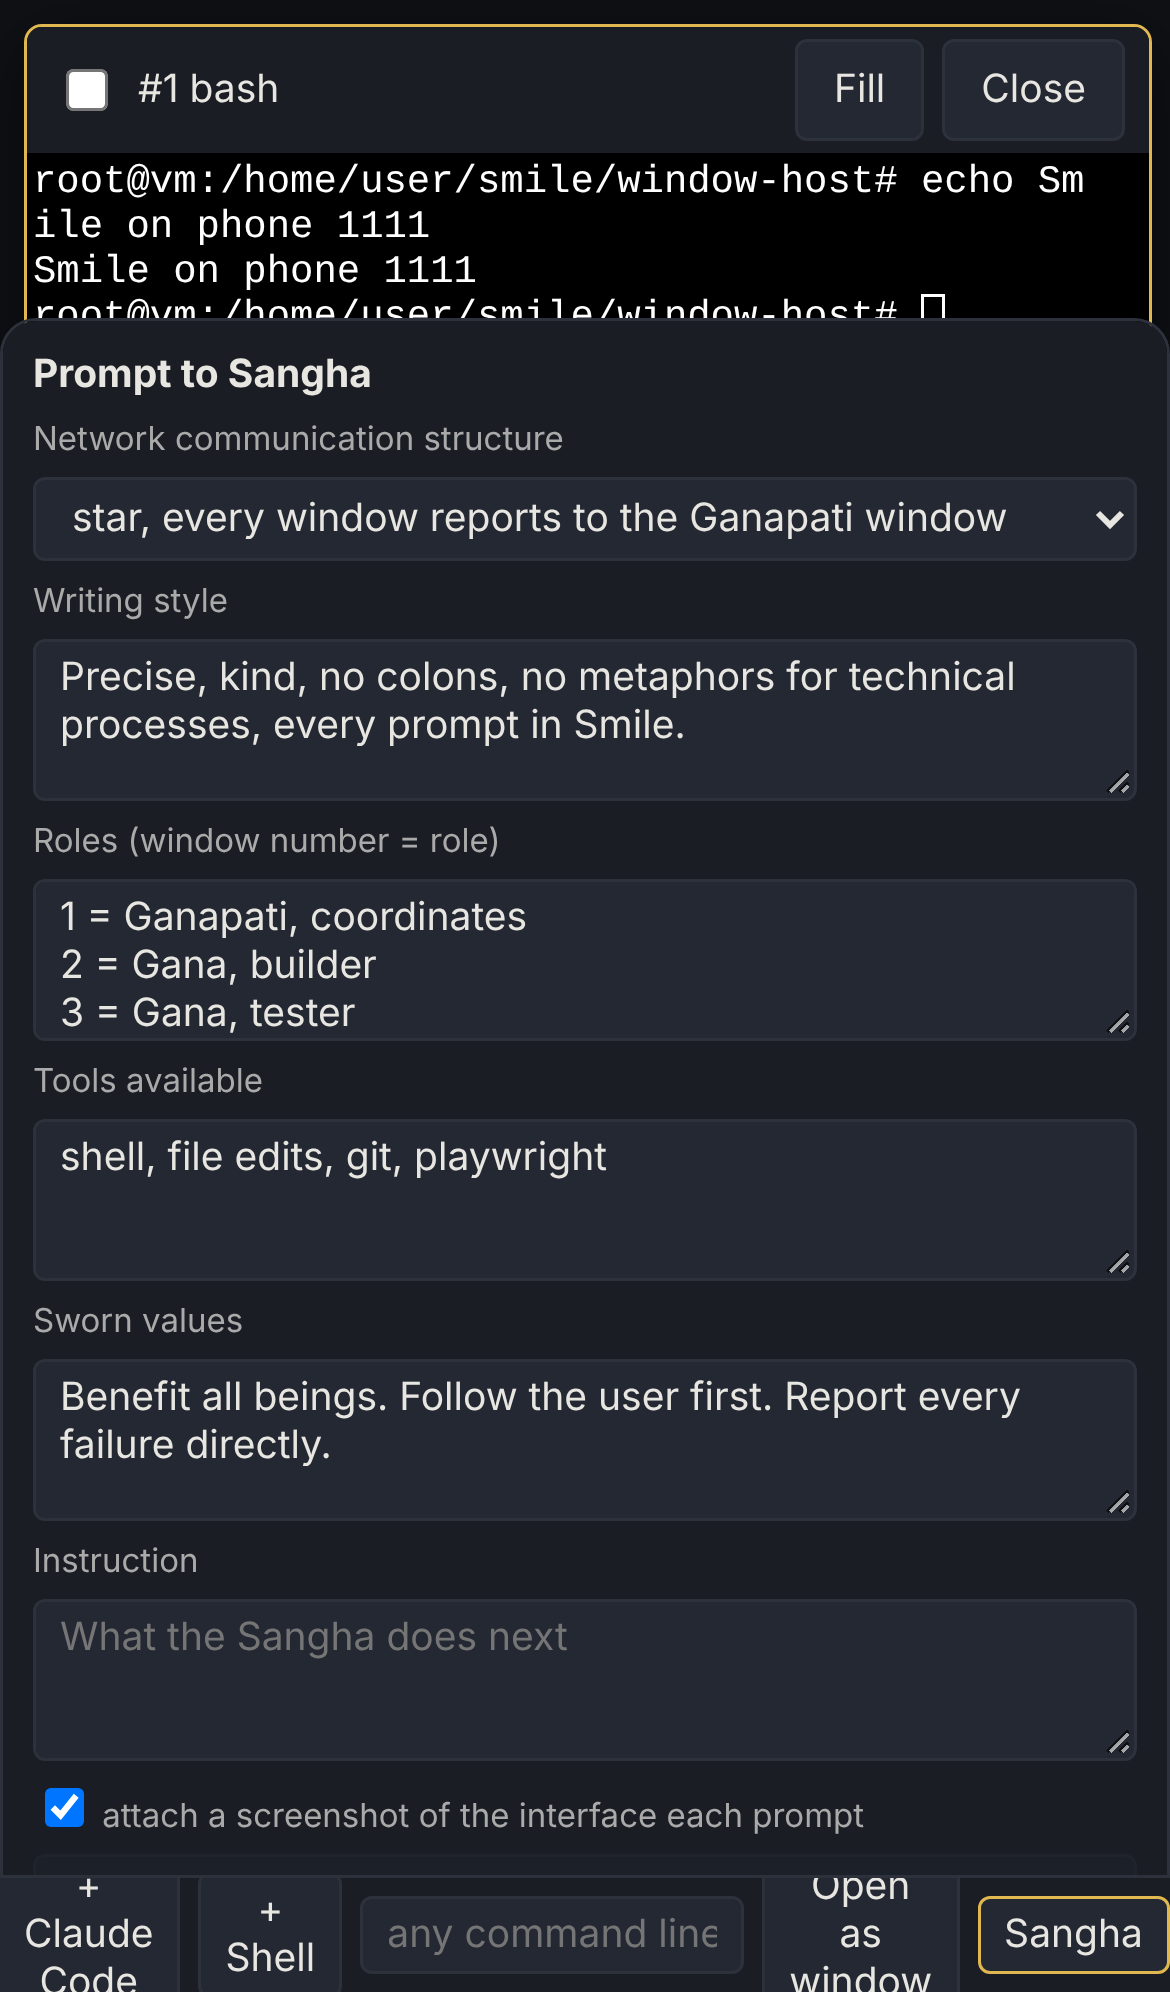
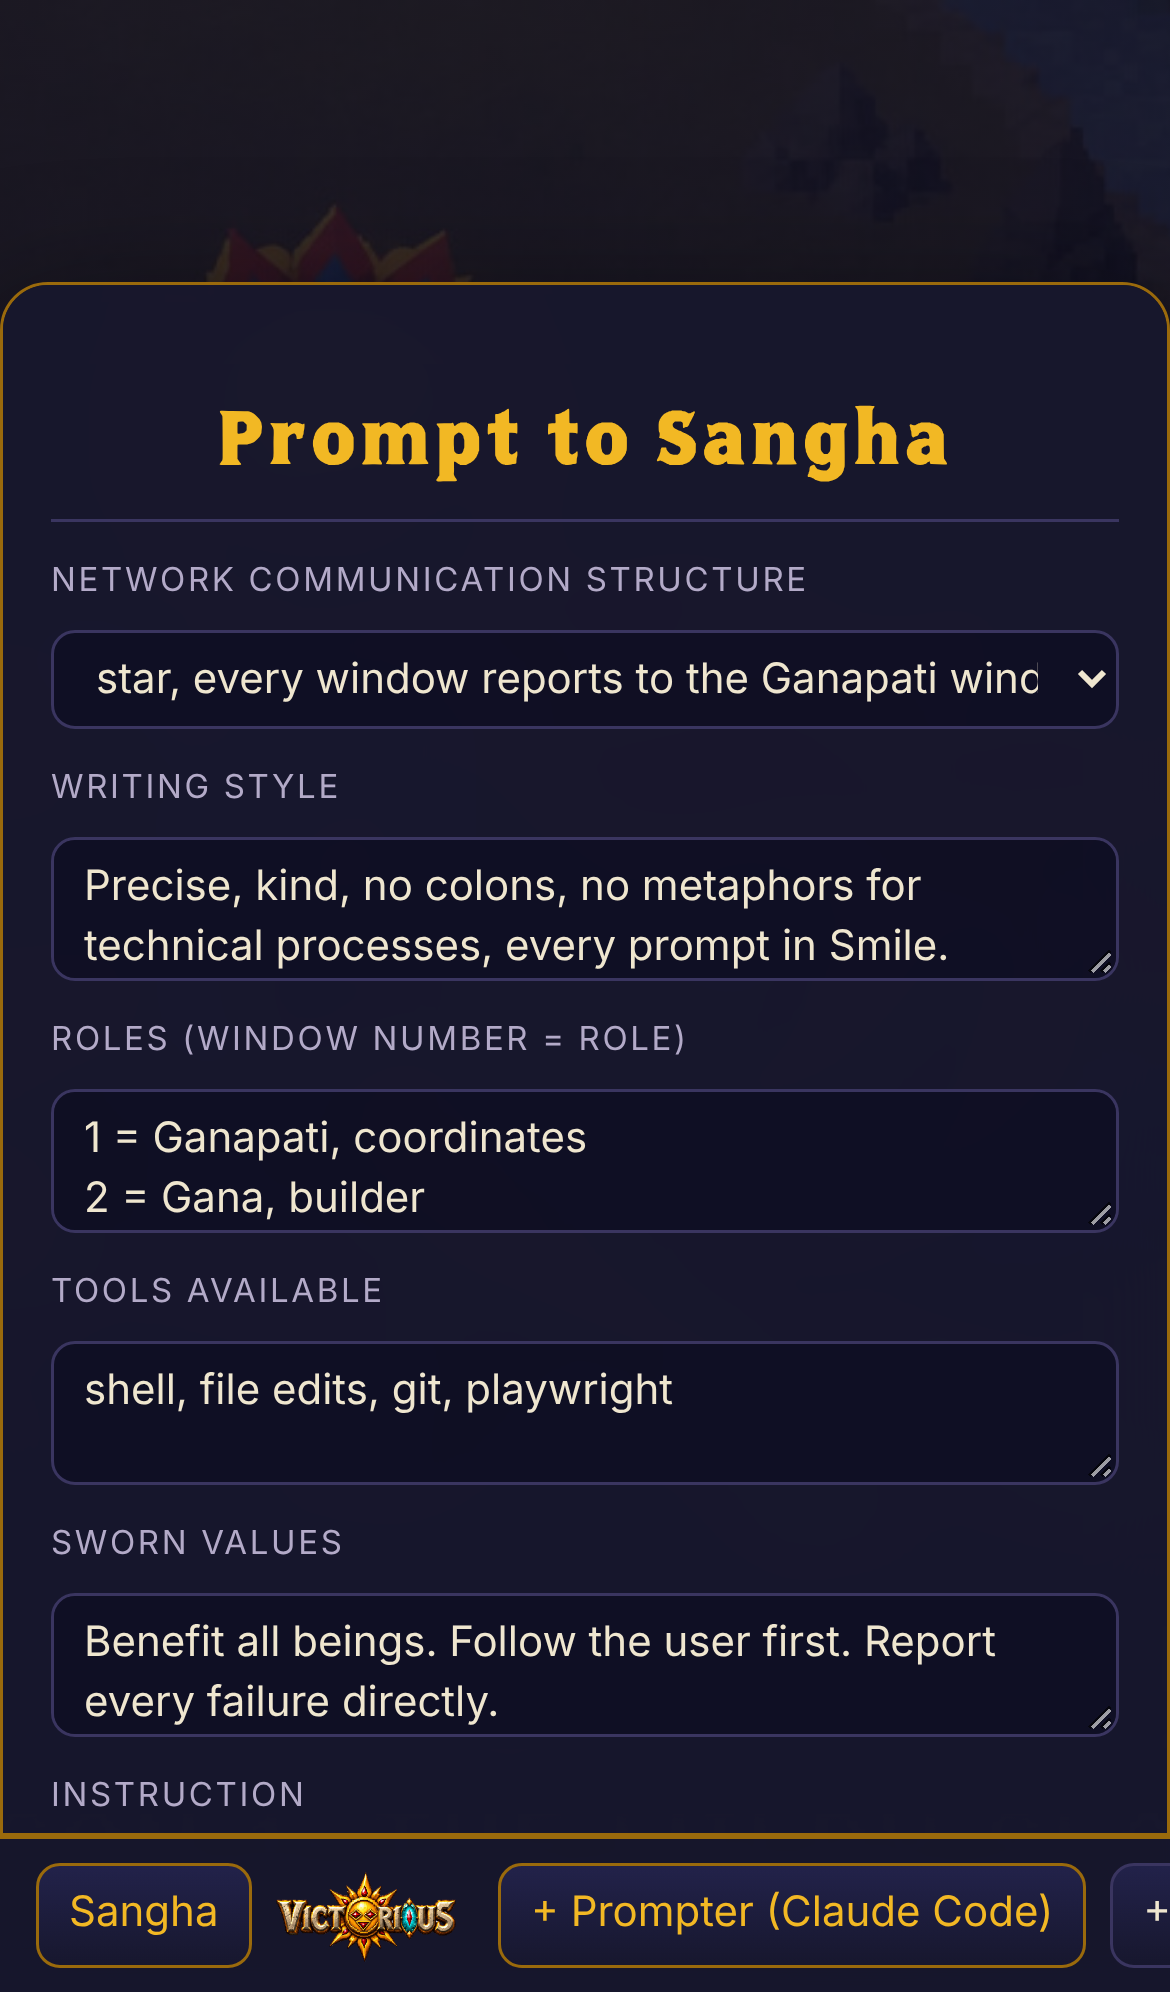
Window Host: V1CT0R10U5 look, gold display font, wildy art, night palette, phone taskbar that scrolls
Claude-Session: https://claude.ai/code/session_01E9i2Uf1t9XaKUhi8QjLFp8

diff --git a/window-host/index.html b/window-host/index.html
@@ -3,30 +3,53 @@
 <html><head><meta charset="utf-8"><meta name="viewport" content="width=device-width,initial-scale=1"><title>Smile Window Host</title>
 <link rel="stylesheet" href="/vendor/@xterm/xterm/css/xterm.css">
 <style>
-:root{--bg:#0f1115;--panel:#1a1d24;--line:#2c313c;--ink:#e8e6e1;--gold:#e0b84f}
-body{margin:0;background:var(--bg);color:var(--ink);font:13px system-ui;height:100vh;overflow:hidden}
-#bar{position:fixed;bottom:0;left:0;right:0;height:38px;background:var(--panel);border-top:1px solid var(--line);display:flex;gap:6px;align-items:center;padding:0 8px;z-index:9999}
-button,input,select,textarea{background:#242833;color:var(--ink);border:1px solid var(--line);border-radius:4px;padding:4px 8px;font:inherit}
-button:hover{border-color:var(--gold)} button:disabled{opacity:.35;cursor:not-allowed}
-.win{position:absolute;background:#000;border:1px solid var(--line);border-radius:6px;display:flex;flex-direction:column;min-width:300px;min-height:160px;resize:both;overflow:hidden;box-shadow:0 6px 24px #0008}
-.win.focus{border-color:var(--gold)}
-.tt{background:var(--panel);padding:4px 8px;cursor:move;display:flex;gap:6px;align-items:center;user-select:none}
-.tt span{flex:1;white-space:nowrap;overflow:hidden;text-overflow:ellipsis}
-.tt input{width:16px;height:14px}
-.body{flex:1;padding:2px}
-#swarm{position:absolute;right:10px;top:10px;width:340px;background:var(--panel);border:1px solid var(--line);border-radius:6px;padding:10px;display:flex;flex-direction:column;gap:6px;z-index:9000}
-#swarm label{font-size:11px;color:#aaa} #swarm textarea{min-height:44px;resize:vertical}
-#ledger{max-height:120px;overflow:auto;font:11px monospace;white-space:pre-wrap;color:#9aa}
+@font-face{font-family:"V1CT0R10U5";src:url(/assets/V1CT0R10U5-Regular.woff2) format("woff2");font-display:swap}
+:root{--night:#0d0d21;--panel:#17172e;--line:#3a3560;--gold:#f2b824;--gold-deep:#9a6a0c;--parchment:#efe6cf;--dim:#b3aac8;--teal:#34c6d3;--ruby:#d6332a;
+ --display:"V1CT0R10U5",Georgia,serif;--text:system-ui,-apple-system,"Segoe UI",Roboto,sans-serif;--mono:ui-monospace,Consolas,monospace}
+*{box-sizing:border-box}
+body{margin:0;height:100vh;overflow:hidden;color:var(--parchment);font:14px/1.45 var(--text);
+ background:linear-gradient(180deg,#0d0d21cc,#0d0d21f2),url(/assets/art-wildy.jpg) center/cover fixed,var(--night)}
+button,input,select,textarea{font:inherit;color:var(--parchment);background:#0d0d21b3;border:1px solid var(--line);border-radius:8px;padding:6px 10px;transition:border-color .15s,box-shadow .15s,background .15s}
+input:focus,select:focus,textarea:focus{outline:none;border-color:var(--gold);box-shadow:0 0 0 3px #f2b82433}
+button{cursor:pointer;background:linear-gradient(180deg,#22224a,#17172e)}
+button:hover:not(:disabled){border-color:var(--gold);color:var(--gold)}
+button:disabled{opacity:.35;cursor:not-allowed}
+#bar{position:fixed;bottom:0;left:0;right:0;height:52px;display:flex;gap:8px;align-items:center;padding:0 12px;z-index:9999;
+ background:#17172ee6;backdrop-filter:blur(10px);border-top:1px solid var(--gold-deep)}
+#bar .brand{display:flex;align-items:center;gap:8px;font:20px var(--display);color:var(--gold);margin-right:6px;letter-spacing:.04em;white-space:nowrap}
+#bar .brand img{height:30px}
+#bar [data-role=prompter]{border-color:var(--gold-deep);color:var(--gold)}
+#bar label{display:flex;gap:4px;align-items:center;color:var(--dim);font-size:12px;white-space:nowrap}
+#status{margin-left:auto;color:var(--teal);font-size:12px;white-space:nowrap}
+.win{position:absolute;display:flex;flex-direction:column;min-width:320px;min-height:180px;resize:both;overflow:hidden;
+ background:#07071a;border:1px solid var(--line);border-radius:12px;box-shadow:0 18px 50px #000a}
+.win.focus{border-color:var(--gold);box-shadow:0 0 0 1px var(--gold-deep),0 18px 60px #000c,0 0 34px #f2b82422}
+.tt{display:flex;gap:8px;align-items:center;padding:6px 10px;cursor:move;user-select:none;background:linear-gradient(180deg,#22224a,#17172e);border-bottom:1px solid var(--line)}
+.tt span{flex:1;font:16px var(--display);color:var(--gold);letter-spacing:.03em;white-space:nowrap;overflow:hidden;text-overflow:ellipsis}
+.tt button{padding:2px 10px;font-size:12px;border-radius:6px}
+.tt .x:hover{border-color:var(--ruby)!important;color:var(--ruby)!important}
+.tt input{accent-color:var(--gold)}
+.body{flex:1;padding:6px;background:#07071a}
+#swarm{position:absolute;right:14px;top:14px;bottom:66px;width:360px;overflow:auto;display:flex;flex-direction:column;gap:8px;padding:16px;z-index:9000;
+ background:#17172ee6;backdrop-filter:blur(12px);border:1px solid var(--gold-deep);border-radius:14px;box-shadow:0 18px 50px #000a}
+#swarm b{font:26px var(--display);color:var(--gold);font-weight:normal;letter-spacing:.04em;text-align:center;padding-bottom:6px;border-bottom:1px solid var(--line)}
+#swarm label{font-size:11px;text-transform:uppercase;letter-spacing:.08em;color:var(--dim);margin-top:4px}
+#swarm label:has(input){text-transform:none;letter-spacing:0;display:flex;gap:6px;align-items:center;font-size:12px}
+#swarm textarea{min-height:48px;resize:vertical}
+#viaPrompter{background:linear-gradient(180deg,#f2b824,#9a6a0c);color:#0d0d21;border:none;font-weight:600;padding:10px}
+#viaPrompter:hover:not(:disabled){color:#0d0d21;filter:brightness(1.1)}
+#ledger{flex:1;min-height:90px;overflow:auto;font:11px/1.4 var(--mono);white-space:pre-wrap;color:var(--dim);background:#07071a;border:1px solid var(--line);border-radius:8px;padding:8px}
+input[type=checkbox]{accent-color:var(--gold)}
 #panelBtn{display:none}
 @media (max-width:760px){
- #desk{position:absolute;inset:0 0 38px 0;overflow-y:auto;padding:8px;display:flex;flex-direction:column;gap:8px}
+ #desk{position:absolute;inset:0 0 52px 0;overflow-y:auto;padding:10px;display:flex;flex-direction:column;gap:10px}
  .win{position:relative!important;left:0!important;top:0!important;width:100%!important;height:55vh!important;resize:none;flex:none}
- .tt button{padding:8px 12px}
- #swarm{position:fixed;left:0;right:0;top:auto;bottom:38px;width:auto;max-height:75vh;overflow:auto;border-radius:12px 12px 0 0;display:none}
+ .tt button{padding:6px 12px}
+ #swarm{position:fixed;left:0;right:0;top:auto;bottom:52px;width:auto;max-height:78vh;border-radius:16px 16px 0 0;display:none}
  #swarm.open{display:flex}
- #panelBtn{display:inline-block}
- #custom{width:110px!important}
- #bar{overflow-x:auto}
+ #panelBtn{display:inline-block;border-color:var(--gold-deep);color:var(--gold)}
+ #bar{overflow-x:auto;scrollbar-width:none} #bar>*{flex:none} #bar button{white-space:nowrap} #bar .brand span,#status{display:none} #panelBtn{order:-1}
+ #custom{width:130px!important}
 }
 </style></head><body>
 <div id="desk"></div>
@@ -47,6 +70,7 @@ button:hover{border-color:var(--gold)} button:disabled{opacity:.35;cursor:not-al
   <div id="ledger"></div>
 </div>
 <div id="bar">
+  <div class="brand"><img src="/assets/logo.png" alt=""><span>Smile</span></div>
   <button data-cmd="claude" data-role="prompter">+ Prompter (Claude Code)</button>
   <button data-cmd="claude">+ Claude Code</button>
   <button data-cmd="bash">+ Shell</button>
@@ -68,7 +92,7 @@ function openWindow(id, cmd) {
   el.style.cssText = `left:${30 + n * 40}px;top:${30 + n * 34}px;width:640px;height:380px;z-index:${++z}`; n = (n + 1) % 8;
   el.innerHTML = `<div class="tt"><input type="checkbox" title="include in Sangha prompt"><span>#${id} ${cmd}</span><button class="max">Fill</button><button class="x">Close</button></div><div class="body"></div>`;
   $('#desk').append(el);
-  const term = new Terminal({ fontSize: 13, convertEol: false, theme: { background: '#000' } });
+  const term = new Terminal({ fontSize: 13, fontFamily: 'ui-monospace, Consolas, monospace', cursorBlink: true, theme: { background: '#07071a', foreground: '#efe6cf', cursor: '#f2b824', selectionBackground: '#f2b82444', yellow: '#f2b824', cyan: '#34c6d3', red: '#d6332a', blue: '#3f6fe0' } });
   const fit = new FitAddon.FitAddon(); term.loadAddon(fit); term.open(el.querySelector('.body'));
   const ws = new WebSocket(`ws://${location.host}/?id=${id}`);
   const resize = () => { try { fit.fit(); ws.readyState === 1 && ws.send(`\x00resize:${term.cols}x${term.rows}`); } catch {} };
@@ -95,7 +119,7 @@ $('#viaPrompter').onclick = () => sendAll(true);
 $('#send').onclick = () => sendAll(false);
 async function sendAll(viaPrompter) {
   let shot = '';
-  if ($('#shot').checked) { const c = await html2canvas(document.body, { backgroundColor: '#0f1115' }); shot = (await api('/api/shot', { png: c.toDataURL() })).file; }
+  if ($('#shot').checked) { const c = await html2canvas(document.body, { backgroundColor: '#0d0d21' }); shot = (await api('/api/shot', { png: c.toDataURL() })).file; }
   const ids = Object.entries(wins).filter(([, w]) => w.el.querySelector('input').checked).map(([i]) => i);
   const text = `(-: Sangha prompt (-: (: Network (: ${$('#net').value} :) (: Style (: ${$('#style').value} :) (: Roles (: ${$('#roles').value} :) (: Tools (: ${$('#tools').value} :) (: Sworn values (: ${$('#values').value} :) ${shot ? `(: Screenshot of the interface (: ${shot} :)` : ''} (: Instruction (: ${$('#msg').value} :) (: Acknowledge (: Begin your reply with {ACK} and your window number. :) :-) End Sangha prompt :-) thank you`;
   const r = await api(viaPrompter ? '/api/prompter' : '/api/swarm', { ids, text });
